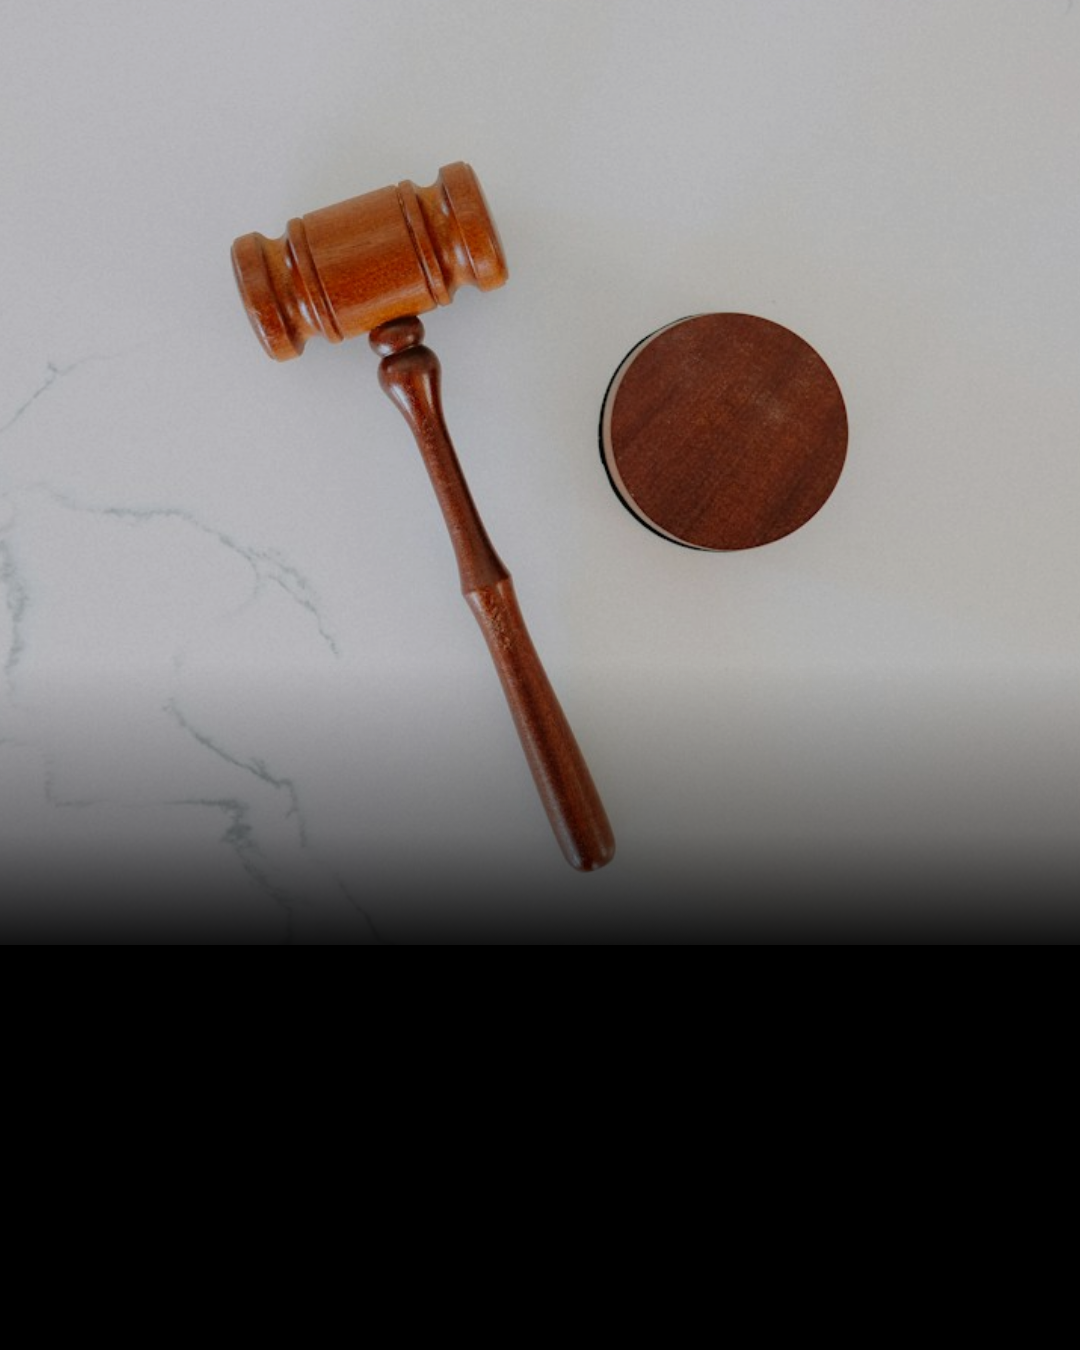
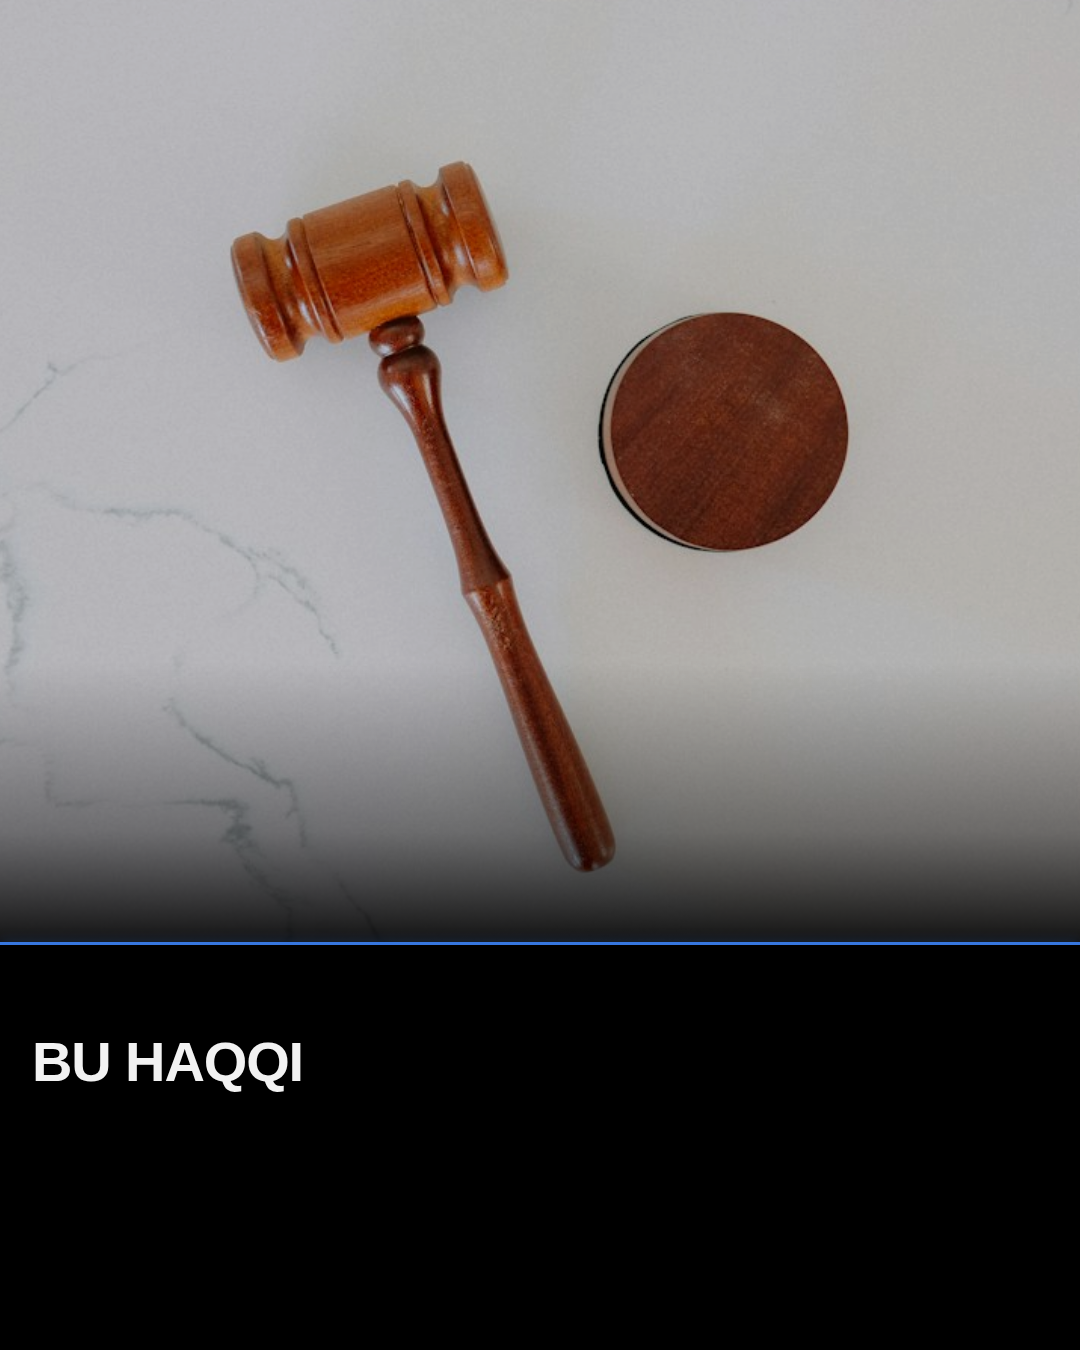
Fix editorial frame 0: slab text visible for Instagram thumbnails
Bug: frame 0 black slab was empty (micro-label/headline fading from frame 6+).
Instagram grid thumbnails need readable frame 0 (like evolving.ai).

Fixed HookEditorial motion:
- Frame 0: micro-label opacity 0.9 (was 0), minimal Y movement
- Frame 0: divider visible (shares micro-label opacity)
- Frame 0: first headline line opacity 0.95 (was 0), minimal Y movement
- Frame 4+: later headline lines stagger in (polish motion preserved)
- CTA still fades frame 20-28

Re-rendered all 5 niche editorial frame-0 PNGs with visible slab text.
MD5s changed: all frames now show divider + label + first line at frame 0.

Changed region(s): [[0.0306, 0.7467, 0.275, 0.8089]]

diff --git a/src/templates/HookEditorial.tsx b/src/templates/HookEditorial.tsx
@@ -41,25 +41,41 @@ const HookEditorial: React.FC<HookEditorialProps> = ({ data, branding }) => {
         extrapolateRight: 'clamp',
     });
 
-    // Micro-label snap in
-    const microLabelY = interpolate(frame, [0, 8], [-12, 0], {
+    // Micro-label + divider: VISIBLE AT FRAME 0 (for Instagram thumbnails)
+    const microLabelY = interpolate(frame, [0, 6], [-3, 0], {
         extrapolateRight: 'clamp',
     });
-    const microLabelOpacity = interpolate(frame, [0, 8], [0, 1], {
+    const microLabelOpacity = interpolate(frame, [0, 6], [0.9, 1], {
+        extrapolateLeft: 'clamp',
         extrapolateRight: 'clamp',
     });
 
-    // Headline lines stagger in (3-5 lines)
+    // Headline lines: FIRST LINE VISIBLE AT FRAME 0, rest stagger
     const headlineLines = headline.split('\n').filter(Boolean);
     const getLineOpacity = (lineIndex: number) => {
-        const startFrame = 6 + lineIndex * 3;
+        if (lineIndex === 0) {
+            // First line: visible at frame 0 for thumbnail
+            return interpolate(frame, [0, 4], [0.95, 1], {
+                extrapolateLeft: 'clamp',
+                extrapolateRight: 'clamp',
+            });
+        }
+        // Later lines: stagger in for polish
+        const startFrame = 4 + lineIndex * 3;
         return interpolate(frame, [startFrame, startFrame + 6], [0, 1], {
             extrapolateLeft: 'clamp',
             extrapolateRight: 'clamp',
         });
     };
     const getLineY = (lineIndex: number) => {
-        const startFrame = 6 + lineIndex * 3;
+        if (lineIndex === 0) {
+            // First line: minimal movement
+            return interpolate(frame, [0, 4], [4, 0], {
+                extrapolateRight: 'clamp',
+            });
+        }
+        // Later lines: stagger motion
+        const startFrame = 4 + lineIndex * 3;
         return interpolate(frame, [startFrame, startFrame + 6], [12, 0], {
             extrapolateLeft: 'clamp',
             extrapolateRight: 'clamp',
